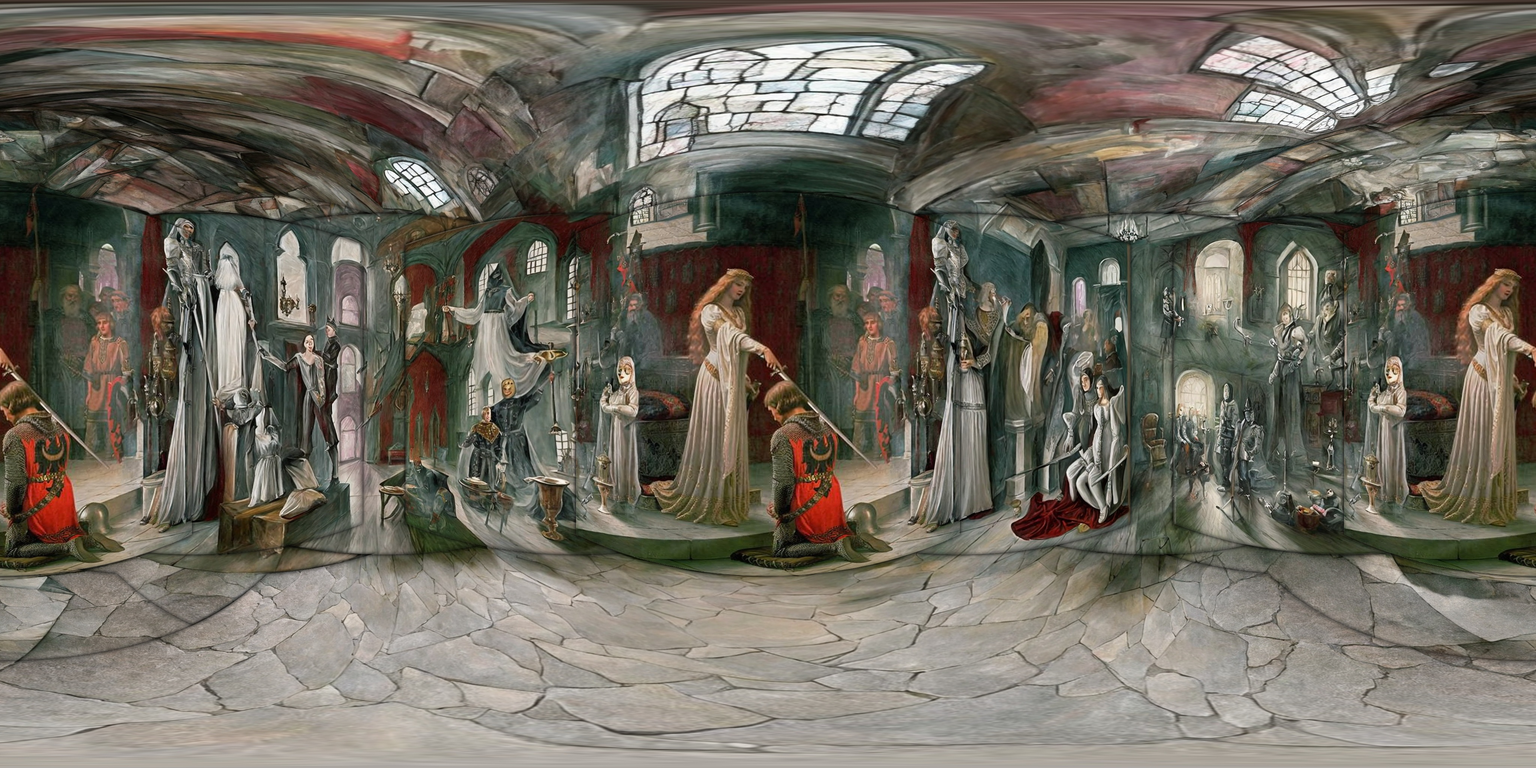
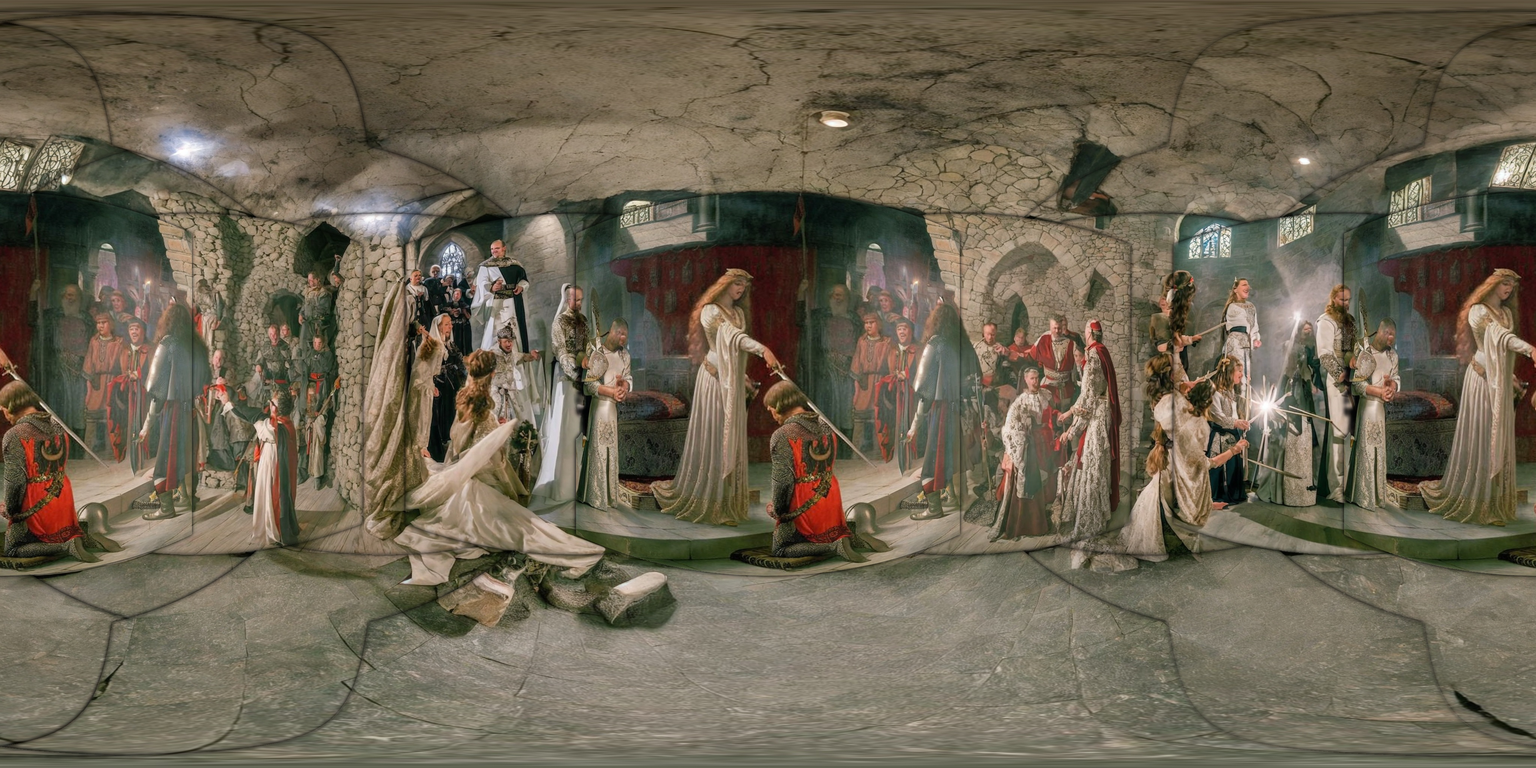
fixed prompts

diff --git a/generate_prompt.py b/generate_prompt.py
@@ -17,7 +17,7 @@ model     = LlavaNextForConditionalGeneration.from_pretrained(
 
 processor = LlavaNextProcessor.from_pretrained(MODEL_ID, use_fast=True)
 
-def query_llava(img: Image.Image, question: str, max_new_tokens: int = 64) -> str: 
+def query_llava(img: Image.Image, question: str, max_new_tokens: int = 32) -> str: 
 
     conversation = [{
         "role": "user",
@@ -41,13 +41,12 @@ def generate_three_prompts(img: Image.Image, prompts_path: str, in_out: str) -> 
             return text.split("ASSISTANT:", 1)[-1].strip()
         return text.strip()
 
-    sys_prompt = "Build simple sentences with simple words."
+    sys_prompt = " Build simple descriptions comma-seperated."
 
     prompts = {
         "atmosphere": query_llava(
             img,
-            "Describe only the background and  overall atmosphere "
-            "Do not mention center objects."
+            f"Describe the overall scene and style, ignore specific objects and people."
             f"{sys_prompt}"
             
         ),
@@ -55,15 +54,12 @@ def generate_three_prompts(img: Image.Image, prompts_path: str, in_out: str) -> 
         "sky_or_ceiling": query_llava(
             img,
             f"Describe only the {'sky' if in_out == 'outdoor' else 'ceiling'} "
-            f"for this {in_out} scene. "
             f"{sys_prompt}"
         ),
 
         "ground_or_floor": query_llava(
             img,
             f"Describe only the {'ground' if in_out == 'outdoor' else 'floor'} "
-            f"for this {in_out} scene."
-            "**ignoring specific objects or people**."
             f"{sys_prompt}"
         )
     }

diff --git a/utils/inpaint.py b/utils/inpaint.py
@@ -71,8 +71,7 @@ def inpaint_image(
     mask_pil  = mask_pil.crop((0, 0, w8, h8))
 
     NEG_PROMPT = (
-    "glitch, jpeg artefacts, unrealistic shadows, border, frame, text, watermark, "
-    "cropped, deformed perspective"
+    "glitch, border, frame, text, watermark"
     )
 
     
@@ -86,7 +85,6 @@ def inpaint_image(
         width               = w8,
         guidance_scale      = guidance_scale,
         num_inference_steps = steps,
-        noise_alpha         = 0.25
     ).images[0]
 
     return cv2.cvtColor(np.array(out_pil), cv2.COLOR_RGB2BGR)

diff --git a/run_depth.py b/run_depth.py
@@ -22,7 +22,7 @@ def main():
 
     # build yaw_lists dict from cfg
     yaw_lists = {
-        "atmosphere":      cfg.horizontal_yaws,
+        "atmosphere":      cfg.horizontal_yaws + [0, 180],
         "sky_or_ceiling":  cfg.sky_yaws,
         "ground_or_floor": cfg.ground_yaws,
     }

diff --git a/run_all.py b/run_all.py
@@ -16,9 +16,9 @@ def main():
     args = parse_args()
 
     scripts = [
-        # "generate_prompt.py",
-        # "run_pano.py",
-        # "run_fixes.py",
+        "generate_prompt.py",
+        "run_pano.py",
+        "run_fixes.py",
         "run_depth.py",
     ]
 
